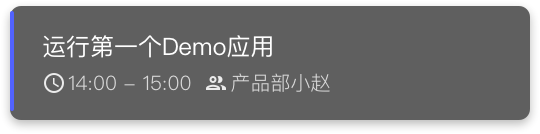
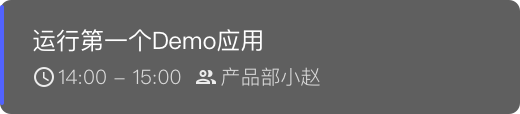
image assets changed to non-background

Changed region(s): [[0.0, 0.0, 1.0, 1.0], [0.0615, 0.5263, 0.6154, 0.7632], [0.0615, 0.2632, 0.5231, 0.4474]]

diff --git a/calendar/custom.css b/calendar/custom.css
@@ -15,7 +15,7 @@ img {
 #events {
     position: absolute;
     right: 0;
-    margin-top: 5%;
+    margin-top: 4%;
     margin-right: 5%;
     width: 75%;
 }
@@ -26,5 +26,7 @@ ul {
 }
 
 ul, li {
-    margin-bottom: -10px;
+    margin-bottom: 0px;
+    padding-top: 3px;
+    padding-bottom: 3px; 
 }
